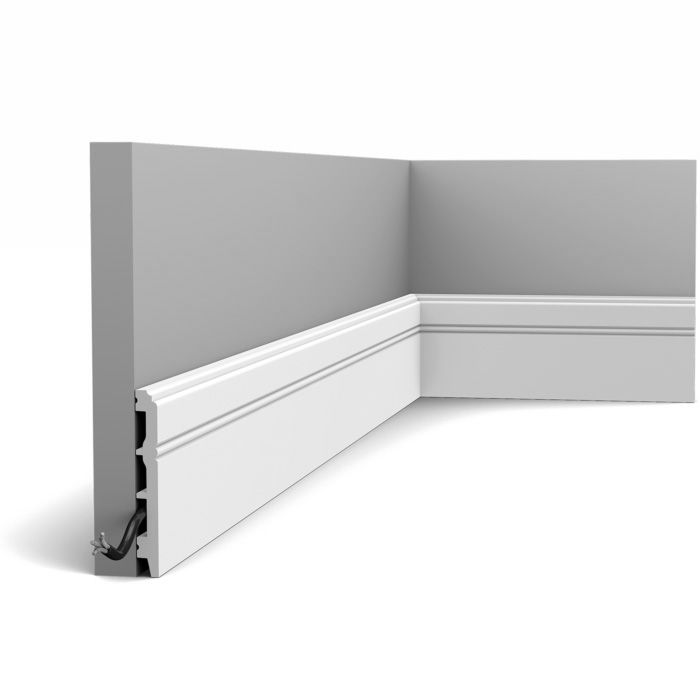
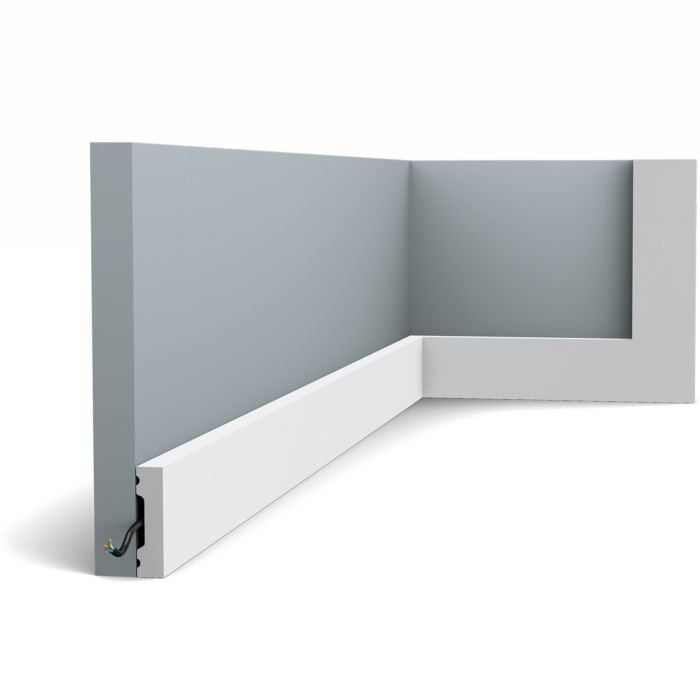
commit from colab

diff --git a/_rooms/01-05-gostinaya.md b/_rooms/01-05-gostinaya.md
@@ -33,7 +33,7 @@ data:
     url: https://olimp-parketa.ru/catalog/laminat/laminat-pergo-uppsala-pro-l1249-05243-dub-vekovoy-korichnevyy-1-596-m2/
     pic: /images/01-05-gostinaya-1.jpg
   - name: Матовая краска
-    url: https://tikkurila.ru/dlya-professionalov/cveta/j377-j377
+    url: https://www.littlegreene.com/garden
     pic: /images/01-05-gostinaya-2.jpg
   - name: Камень для портала камина
     url: https://www.worldofquartz.ru/catalog/naturalnyy-kamen/bidasar-green/

diff --git a/_rooms/01-04-sanuzel.md b/_rooms/01-04-sanuzel.md
@@ -57,7 +57,7 @@ data:
     pic: /images/01-04-sanuzel-9.jpg
     num: 1
   - name: Полотенцесушитель эл. СУНЕРЖА
-    url: https://shop.sunerzha.com/catalog/elektricheskie/lesenki_2/reb_bogema_3_0_pryamaya_600kh500_mem_pravyy/?oid=30780
+    url: https://shop.sunerzha.com/catalog/elektricheskie/lesenki_2/reb_bogema_3_0_pryamaya_800kh500_mem_pravyy/?oid=31201
     pic: /images/01-04-sanuzel-10.jpg
     num: 1
   - name: Душевая система PAFFONI KIT 

diff --git a/_rooms/03-19-muzykalnaya.md b/_rooms/03-19-muzykalnaya.md
@@ -10,8 +10,6 @@ name: Музыкальная студия
 number: 19
 floor: 3
 
-three: 1
-
 dxf: plan_3_19.svg
 
 head:
@@ -70,7 +68,7 @@ data:
 - id: Лепной декор
   content:
   - name: Плинтус 
-    url: https://oracdecor.ru/sx105_skirting
+    url: https://oracdecor.ru/sx162_skirting
     pic: /images/03-19-muzykalnaya-20.jpg
 
 ---

diff --git a/_rooms/03-21-sanuzel.md b/_rooms/03-21-sanuzel.md
@@ -10,8 +10,6 @@ name: Санузел
 number: 21
 floor: 3
 
-three: 1
-
 dxf: plan_3_21.svg
 
 head:
@@ -74,7 +72,7 @@ data:
 - id: Лепной декор
   content:
   - name: Плинтус 
-    url: https://oracdecor.ru/sx105_skirting
+    url: https://oracdecor.ru/sx162_skirting
     pic: /images/03-21-sanuzel-20.jpg
 
 ---

diff --git a/_rooms/02-13-masterspalnya.md b/_rooms/02-13-masterspalnya.md
@@ -69,7 +69,7 @@ data:
     num: 1
   - name: Зеркало круглое
     url: https://dantonehome.ru/products/zerkalo_amber_krugloe_latunnogo_tsveta/
-    pic: empty
+    pic: /images/02-13-masterspalnya-14.jpg
     num: 1
 - id: Светильники
   content:
